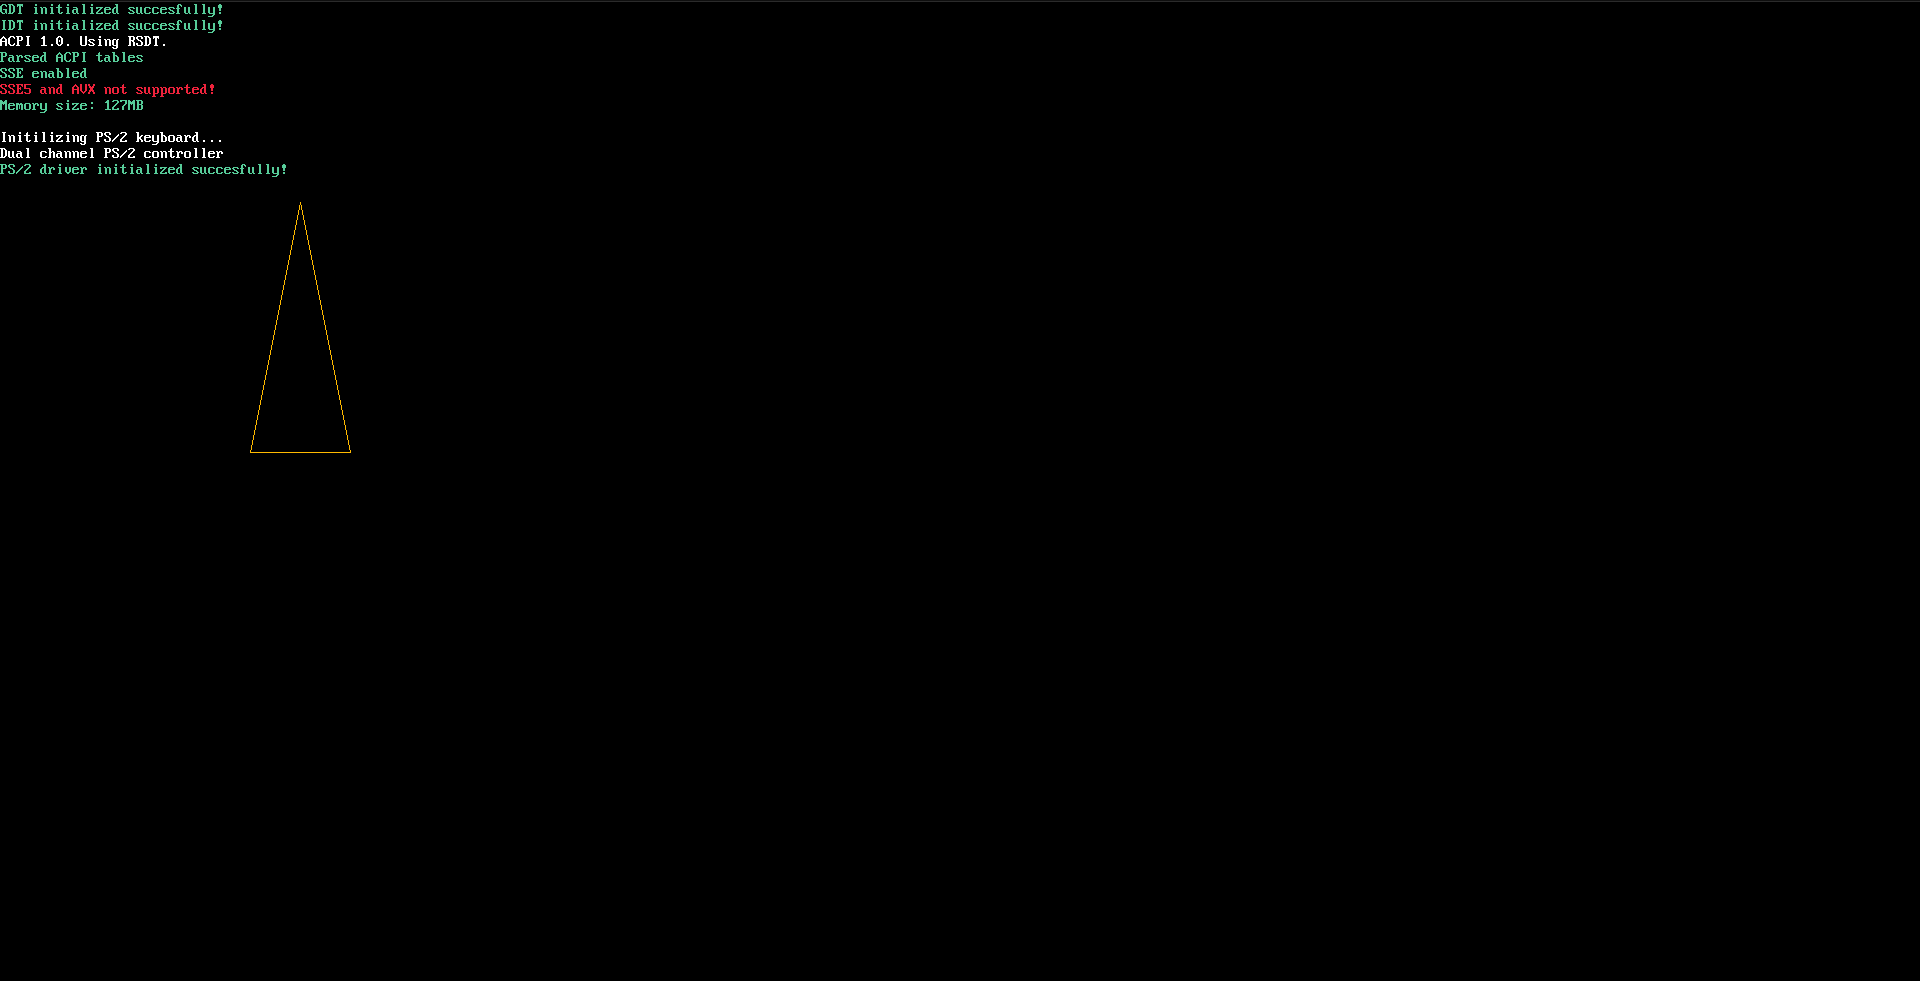
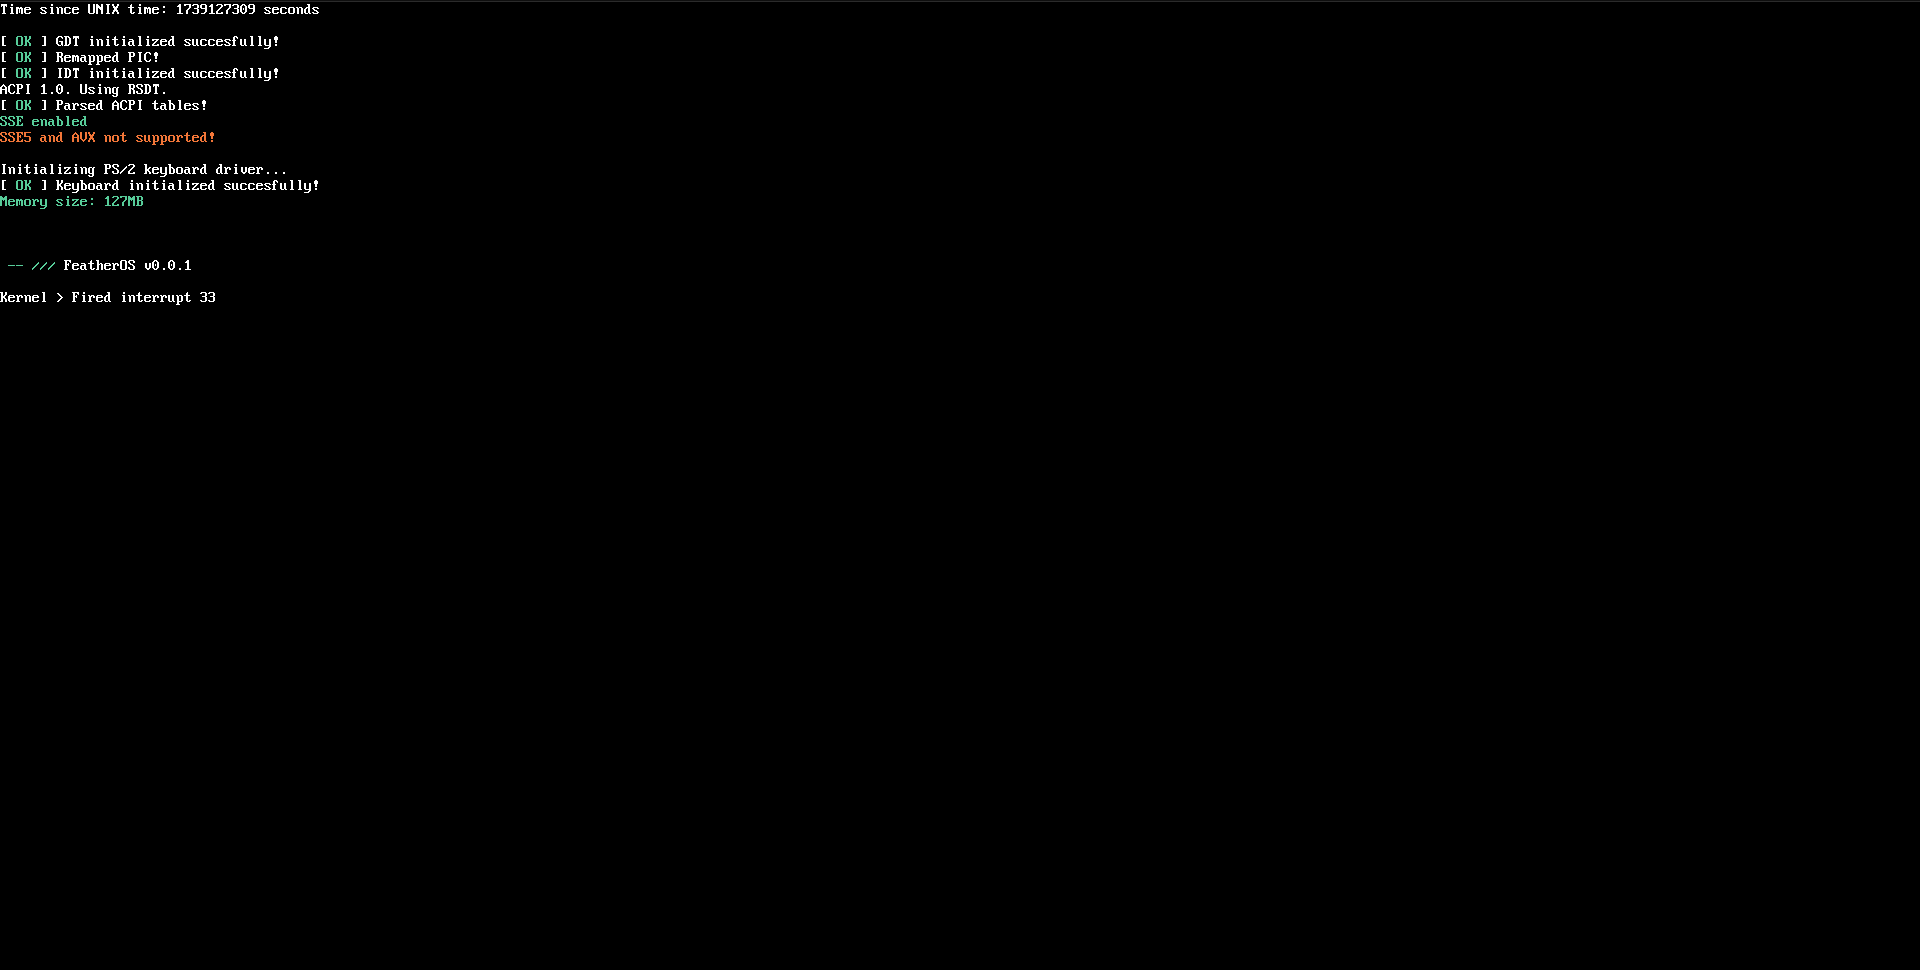
Improved PS/2 driver

Changed region(s): [[0.0, 0.0, 0.1562, 0.2165], [0.0312, 0.2474, 0.0938, 0.2784]]

diff --git a/Kernel/Drivers/Keyboard.c b/Kernel/Drivers/Keyboard.c
@@ -24,67 +24,82 @@ void keyboardIsr() {
 void keyboardInit() {
     // TODO: Check in FADT ACPI table if there are PS/2 controllers first!
 
+    log("\nInitializing PS/2 keyboard driver...\n");
+    // uint8_t controllerConfig;
     // bool dualChannel = false;
-    // log("\nInitilizing PS/2 keyboard...\n");
 
-    // // Disable PS/2 ports
-    // outb(ps2Reg, 0xad);
-    // outb(ps2Reg, 0xa7);
+    // // Disable PS/2 devices
+    // outb(ps2Data, 0xad);
+    // outb(ps2Data, 0xa7);
 
     // uint8_t garbageData = inb(ps2Data); // Flush output buffer
 
-    // // Disable scan code translation if enabled and IRQs
+    // // Disable IRQs and translations
     // outb(ps2Reg, 0x20);
-    // uint8_t configByte = inb(ps2Data);
-    // if (configByte << 6) configByte &= 0xbc; // Clear bit 0, 1 and 6
+    // if (inb(ps2Reg) << 0) {
+    //     controllerConfig = inb(ps2Data);
+    //     controllerConfig &= 0xbc; // Clears bit 0, 1, 6
+    // }
     // outb(ps2Reg, 0x60);
-    // outb(ps2Data, configByte);
-    // if (configByte << 5) dualChannel = true;
+    // outb(ps2Data, controllerConfig);
 
-    // // Test PS/2 controller
+    // // Controller self test
     // outb(ps2Reg, 0xaa);
-    // if(inb(ps2Data) != 0x55) {
+    // if (inb(ps2Data) != 0x55) {
     //     log("%bPS/2 controller test failed!\n", 0xef233c);
     //     return;
     // }
 
-    // // Check if it's a single channel controller or not
-    // if (dualChannel) {
-    //     log("Dual channel PS/2 controller\n");
-    //     outb(ps2Reg, 0xa8); // Enable second PS/2 port
-    //     outb(ps2Reg, 0x20);
-    //     configByte = inb(ps2Data);
-
-    //     // If bit 5 is clear it's a dual channel controller
-    //     if (!configByte << 5) {
-    //         outb(ps2Reg, 0xa7);
-    //         dualChannel = true;
-    //     }
-    // }
-
-    // // Test ports
-    // outb(ps2Reg, 0xab);
-    // if (inb(ps2Data)) {
-    //     log("%bPS/2 error: first port unavaiable!\n", 0xef233c);
-    //     return;
-    // }
-    // if (dualChannel) {
-    //     outb(ps2Reg, 0xa9);
-    //     if (inb(ps2Data)) {
-    //         log("%bPS/2 error: second port unavaiable!\n", 0xef233c);
-    //         return;
-    //     }
-    // }
-
-    // // Enable ports and IRQs
-    // outb(ps2Reg, 0xae);
+    // // Check if we have 2 channels
     // outb(ps2Reg, 0xa8);
     // outb(ps2Reg, 0x20);
-    // configByte = inb(ps2Data);
-    // configByte |= 0x1;
-    // if (dualChannel) configByte |= 0x3;
-    // outb(ps2Reg, 0x60);
-    // outb(ps2Data, configByte);
+    // if (inb(ps2Reg) << 0) {
+    //     controllerConfig = inb(ps2Data);
+
+    //     if (!controllerConfig << 5) {
+    //         log("Dual channel PS/2 controller\n");
+    //         dualChannel = true;
+    //         outb(ps2Reg, 0xa7);
+
+    //         controllerConfig &= 0x2;
+    //         outb(ps2Reg, 0x60);
+    //         outb(ps2Data, controllerConfig);
+    //     }
+    // }
+
+    // // Test first port
+    // outb(ps2Reg, 0xab);
+    // if (inb(ps2Data) != 0) {
+    //     log("First PS/2 port test error!\n");
+    // }
+
+    // if (dualChannel) {
+    //     // Test second port
+    //     outb(ps2Reg, 0xa9);
+    //     if (inb(ps2Data) != 0) log("Second PS/2 port test error!\n");
+    // }
+
+    // // Enable ports
+    // outb(ps2Reg, 0xae);
+    // if (dualChannel) outb(ps2Reg, 0xa8);
+
+    // // Enable interrupts
+    // outb(ps2Reg, 0x20);
+    // if (inb(ps2Reg) << 0) {
+    //     controllerConfig = inb(ps2Data);
+
+    //     if (dualChannel) {
+    //         controllerConfig |= 0x3;
+    //     } else {
+    //         controllerConfig |= 0x1;
+    //     }
+
+    //     outb(ps2Reg, 0x60);
+    //     outb(ps2Data, controllerConfig);
+    // }
+
+    // Reset connect devices
+    // outb();
 
     // // Reset keyboard
     // if (!inb(ps2Reg) & 0x02) {
@@ -97,10 +112,8 @@ void keyboardInit() {
     // }
 
     // Tell PIC not to mask IRQ 1(keyboard)
-    uint8_t currentMask = inb(0x21);
-    outb(0x21, currentMask & 0xfd);
-
-    uint8_t garbageData = inb(0x60); // Flush output buffer
+    // uint8_t currentMask = inb(0x21);
+    // outb(0x21, currentMask & 0xfd);
 
     log("[ %bOK%b ] Keyboard initialized succesfully!\n", 0x57cc99, 0xffffff);
 }

diff --git a/Kernel/Kernel.c b/Kernel/Kernel.c
@@ -27,9 +27,9 @@ void __attribute__((section(".entry"))) kernelInit(void) {
     acpiInit();
     log("[ %bOK%b ] Parsed ACPI tables!\n", 0x57cc99, 0xffffff);
     sseInit();
-    log("%bMemory size: %dMB\n", 0x57cc99, (uint64_t)(GetMemorySize() / 1048576));
-
     keyboardInit();
+
+    log("%bMemory size: %dMB\n", 0x57cc99, (uint64_t)(GetMemorySize() / 1048576));
     terminalInit();
 
     // float g = 5 / 0;

diff --git a/Kernel/Include/Arch/x86/Isr.h b/Kernel/Include/Arch/x86/Isr.h
@@ -33,5 +33,5 @@ typedef __attribute__((packed)) struct {
 } __attribute__((packed)) intFrame_t;
 
 
-void __attribute__((noreturn)) intHandler(intFrame_t* intFrame);
+void intHandler(intFrame_t* intFrame);
 void generalIrqHandler(intFrame_t* intFrame);

diff --git a/Kernel/Arch/x86/Isr.c b/Kernel/Arch/x86/Isr.c
@@ -38,7 +38,7 @@ static const char* exceptionsNames[] = {
 };
 
 
-void __attribute__((noreturn)) intHandler(intFrame_t* intFrame) {
+void intHandler(intFrame_t* intFrame) {
     __asm__ volatile("cli");
 
     if (intFrame->isrNum <= 31) {

diff --git a/Kernel/Include/Drivers/Keyboard.h b/Kernel/Include/Drivers/Keyboard.h
@@ -3,6 +3,9 @@
 
 #include <Ports.h>
 
+#define ps2Data 0x60
+#define ps2Reg 0x64
+
 
 void keyboardIsr();
 void keyboardIrqHandler();

diff --git a/README.md b/README.md
@@ -6,8 +6,8 @@ A simple x86 64-bit hobby operating system made in C and Assembly.
 
 This project contains my shot at creating a functioning os and since I'm still learning a lot it may contain bad code, bad practices and bugs. I tried to run the os on my computer and a Thinkpad laptop and it worked without causing hassle.
 For now the os does the following:
- - Setup a GDT
- - Setup IDT and handles exceptions
+ - Sets up a GDT
+ - Sets up IDT and handles exceptions and IRQs
  - Barebones ACPI driver.
  - SSE support.
  - Barebones PS/2 keyboard driver.
@@ -25,7 +25,7 @@ sudo make
 ```
 
 ## Running the os
-As a virtual machine I use Qemu with the `qemu-system-x86_64` command, so install that and you're good to go.
+I use Qemu with the `qemu-system-x86_64` command, so install that and you're good to go.
 To run it just type:
 ```sh
 make run
